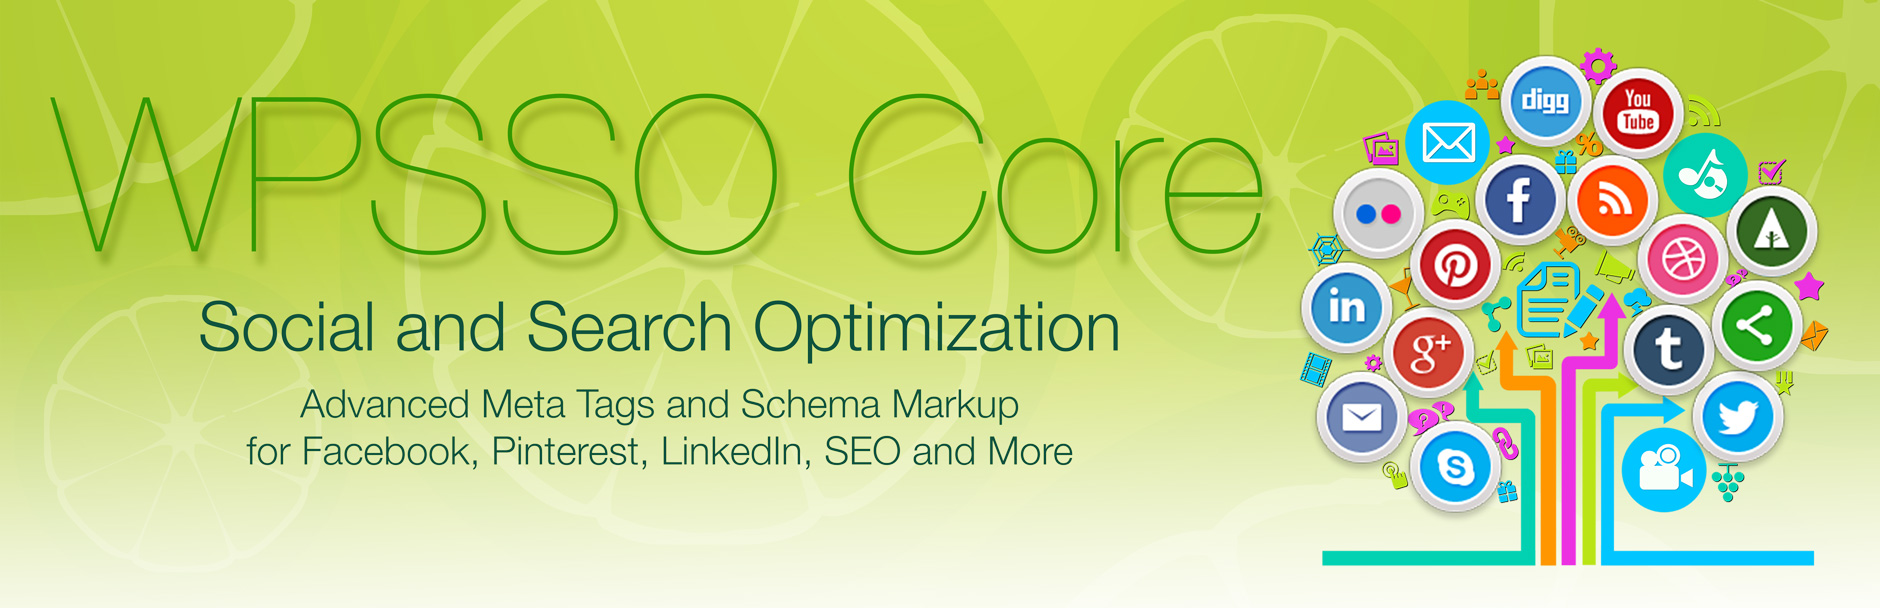
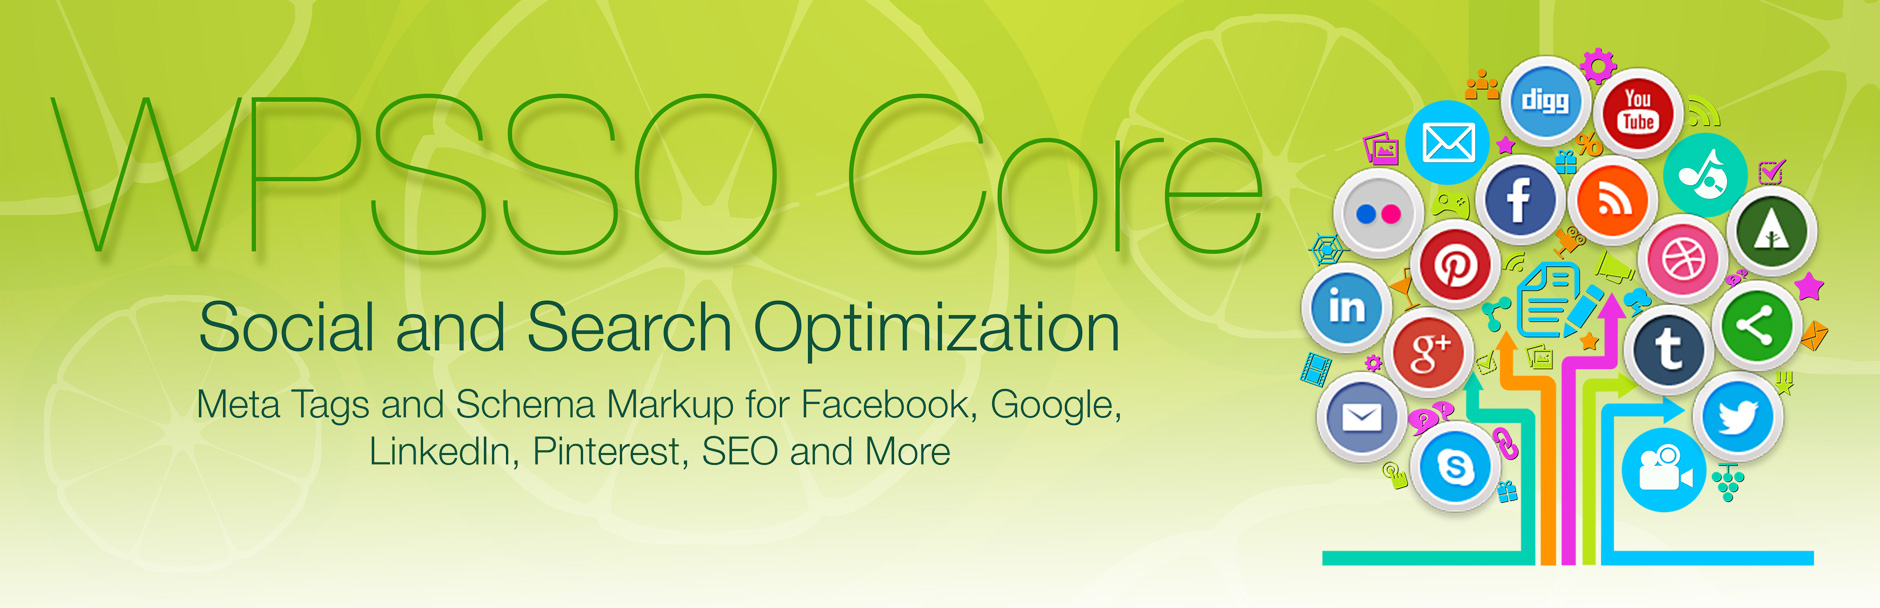
non-essential support files (documentation and assets)

Changed region(s): [[0.1234, 0.7188, 0.5862, 0.7812], [0.0926, 0.625, 0.5862, 0.6875]]

diff --git a/index.html b/index.html
@@ -25,7 +25,7 @@
         </ul>
       </header>
       <section>
-<h1>WPSSO Core</h1><h3>Advanced Meta Tags and Schema Markup for Facebook, Pinterest, LinkedIn, SEO and More</h3>
+<h1>WPSSO Core</h1><h3>Meta Tags and Schema Markup for Facebook, Google, LinkedIn, Pinterest, SEO and More</h3>
 
 <table>
 <tr><th align="right" valign="top" nowrap>Plugin Name</th><td>WPSSO Core [Main Plugin]</td></tr>
